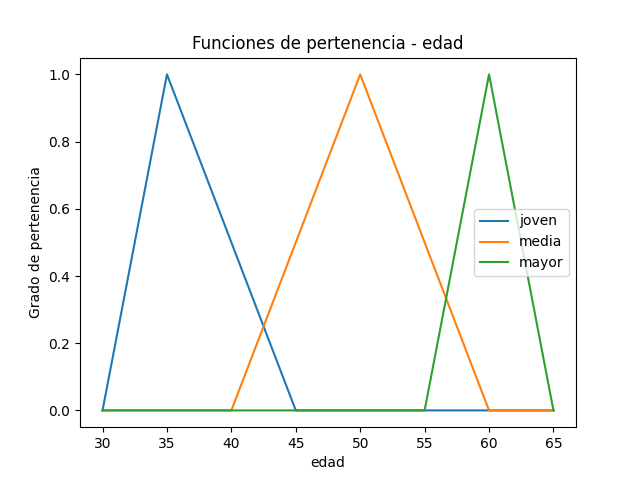
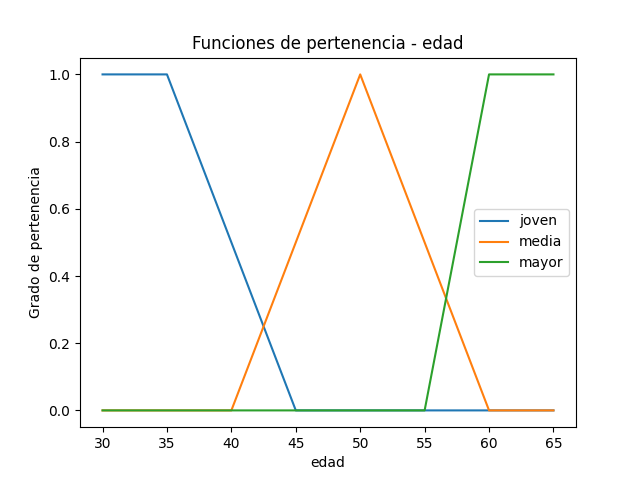
final

diff --git a/fuzzy_system.py b/fuzzy_system.py
@@ -30,7 +30,7 @@ presion_sist['muy alta'] = fuzz.trapmf(presion_sist.universe, [130, 150,240, 300
 # Presión diastólica (baja)
 presion_diast['normal']   = fuzz.trapmf(presion_diast.universe, [40,  60, 80,  90])
 presion_diast['alta']     = fuzz.trapmf(presion_diast.universe, [80,  90, 110, 120])
-presion_diast['muy alta'] = fuzz.trapmf(presion_diast.universe, [110, 120,180, 200]) # 200 fuera de rango -> pertenencia total (no finaliza bajando)
+presion_diast['muy alta'] = fuzz.trapmf(presion_diast.universe, [110, 120,191, 200]) # 200 fuera de rango -> pertenencia total (no finaliza bajando)
 
 # Colesterol
 colesterol['bueno']  = fuzz.trimf(colesterol.universe, [1, 1, 2])
@@ -43,9 +43,9 @@ glucosa['media']  = fuzz.trimf(glucosa.universe, [1, 2, 3])
 glucosa['mala']   = fuzz.trimf(glucosa.universe, [2, 3, 3])
 
 # Edad
-edad['joven']  = fuzz.trimf(edad.universe, [30, 35, 45])
+edad['joven']  = fuzz.trapmf(edad.universe, [0, 30, 35, 45]) # 0 fuera de rango
 edad['media']  = fuzz.trimf(edad.universe, [40, 50, 60])
-edad['mayor']  = fuzz.trimf(edad.universe, [55, 60, 65])
+edad['mayor']  = fuzz.trapmf(edad.universe, [55, 60, 65, 100]) # 100 fuera de rango
 
 # IMC
 imc['bajopeso']  = fuzz.trapmf(imc.universe, [5,  10, 16.5, 19]) # 5 fuera de rango

diff --git a/main.py b/main.py
@@ -6,8 +6,8 @@ from fuzzy_system import presion_sist, presion_diast, colesterol, glucosa, edad,
 from patient_input import procesar_fila
 
 
-GUARDAR_FUNCIONES = True
-ANALIZAR_CSV = False
+GUARDAR_FUNCIONES = False
+ANALIZAR_CSV = True
 
 
 ########################## GUARDADO DE FUNCIONES DE PERTENENCIA
